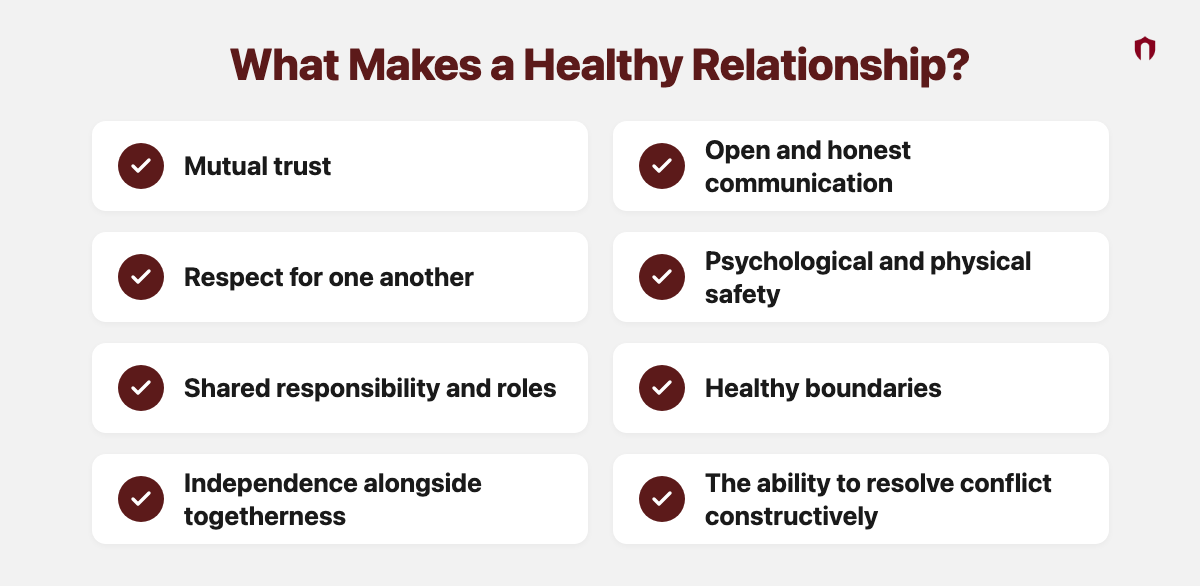
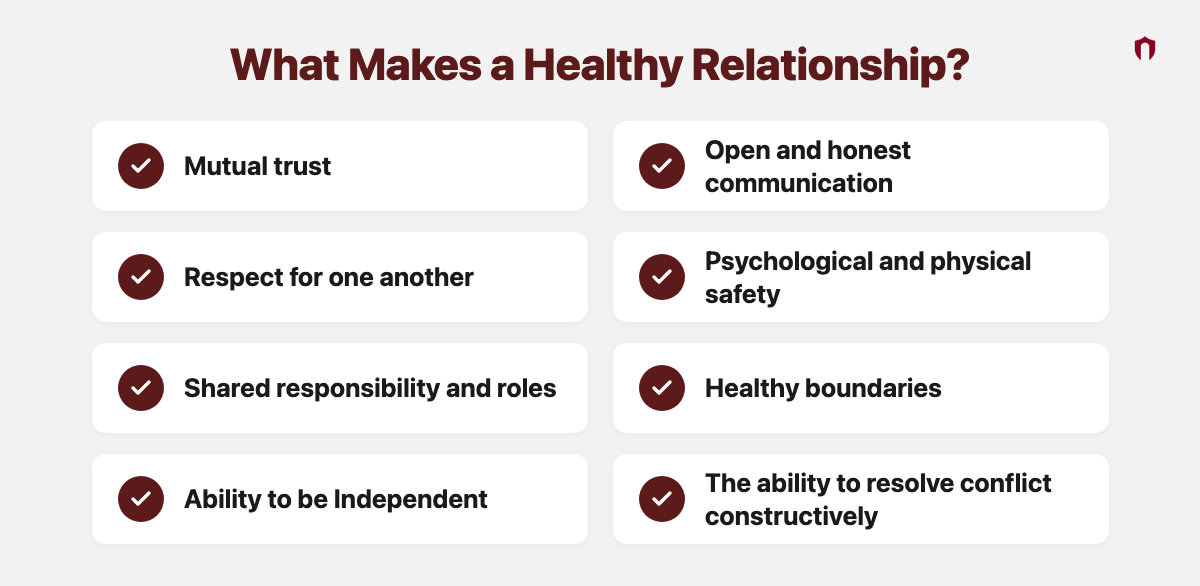
Reword an item in the healthy relationship graphic
Independence alongside togetherness -> Ability to be Independent.
Graphic re-rendered and alt text updated to match.

Changed region(s): [[0.1542, 0.7986, 0.4317, 0.9215]]

diff --git a/topics/breakup.html b/topics/breakup.html
@@ -86,7 +86,7 @@
         <p class="module-subtitle"><strong>What Makes a Healthy Relationship?</strong></p>
         <p>Many people believe that compatibility alone determines whether a relationship will succeed. While compatibility certainly matters, long-term relationship success depends far more on how two people communicate, solve problems, and support one another during life's inevitable challenges. In other words, a lot of people can have fun and get along during the good times, but the meaningful relationships in our life that withstand the test of time are ones that get through the bad times with relative ease and even come out stronger on the other side.</p>
         <p>Healthy relationships generally include several important characteristics:</p>
-        <img src="../images/breakup-healthy-characteristics.png" alt="What Makes a Healthy Relationship? Mutual trust, open and honest communication, respect for one another, psychological and physical safety, shared responsibility and roles, healthy boundaries, independence alongside togetherness, the ability to resolve conflict constructively" style="width:100%; max-width:720px; display:block; margin:0.6rem auto; border-radius: var(--radius); box-shadow: var(--shadow);">
+        <img src="../images/breakup-healthy-characteristics.png" alt="What Makes a Healthy Relationship? Mutual trust, open and honest communication, respect for one another, psychological and physical safety, shared responsibility and roles, healthy boundaries, ability to be independent, the ability to resolve conflict constructively" style="width:100%; max-width:720px; display:block; margin:0.6rem auto; border-radius: var(--radius); box-shadow: var(--shadow);">
         <p>Healthy relationships allow both individuals to maintain their own identity while also building a meaningful life together. Each partner should feel comfortable expressing thoughts, emotions, opinions, and needs without fear of ridicule, manipulation, or retaliation.</p>
         <p>An important misconception to address: healthy relationships are not ones without conflict. Disagreements are a normal part of every close relationship. The difference lies in how conflict is handled. Healthy couples and friends focus on solving problems together rather than trying to "win" arguments against one another. The respect and open-mindedness shown during difficult conversations can lead to a stronger relationship on the other end of it.</p>
 
